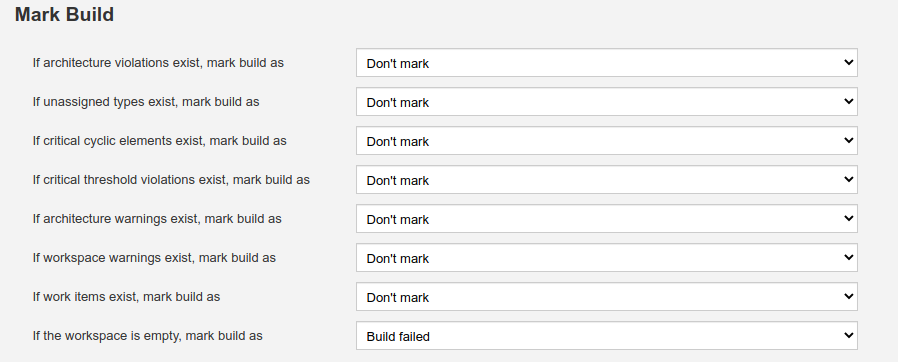
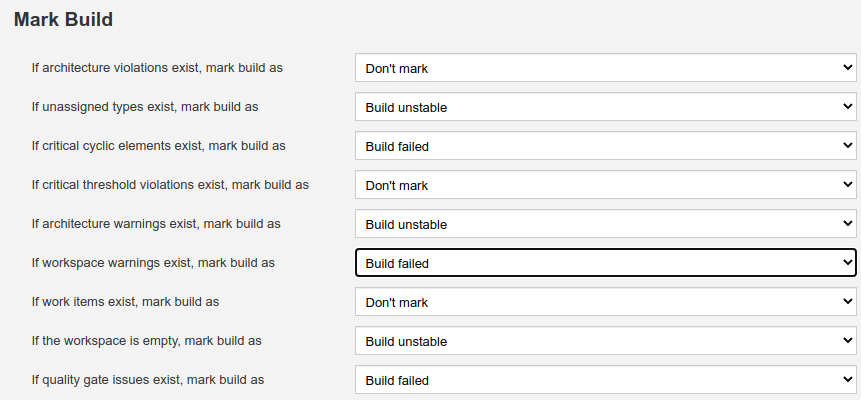
Added possibility to mark build on quality gate issues

diff --git a/src/main/java/com/hello2morrow/sonargraph/integration/jenkins/controller/AbstractSonargraphRecorder.java b/src/main/java/com/hello2morrow/sonargraph/integration/jenkins/controller/AbstractSonargraphRecorder.java
@@ -49,6 +49,7 @@ public abstract class AbstractSonargraphRecorder extends Recorder
     private String workspaceWarningsAction = DEFAULT_ACTION;
     private String workItemsAction = DEFAULT_ACTION;
     private String emptyWorkspaceAction = DEFAULT_ACTION;
+    private String qualityGateAction = DEFAULT_ACTION;
     
     public String getArchitectureViolationsAction()
     {
@@ -90,6 +91,11 @@ public abstract class AbstractSonargraphRecorder extends Recorder
         return emptyWorkspaceAction;
     }
 
+    public String getQualityGateAction()
+    {
+        return qualityGateAction;
+    }
+    
     @DataBoundSetter
     public void setArchitectureViolationsAction(String architectureViolationsAction)
     {
@@ -138,6 +144,12 @@ public abstract class AbstractSonargraphRecorder extends Recorder
         this.emptyWorkspaceAction = emptyWorkspaceAction;
     }
 
+    @DataBoundSetter
+    public void setQualityGateAction(String qualityGateAction)
+    {
+        this.qualityGateAction = qualityGateAction;
+    }
+    
     @Override
     public BuildStepMonitor getRequiredMonitorService()
     {
@@ -184,6 +196,7 @@ public abstract class AbstractSonargraphRecorder extends Recorder
         sonargraphBuildAnalyzer.changeBuildResultIfIssuesExist("Workspace", Severity.NONE, workspaceWarningsAction);
         sonargraphBuildAnalyzer.changeBuildResultIfIssuesExist("Todo", Severity.NONE, workItemsAction);
         sonargraphBuildAnalyzer.changeBuildResultIfMetricValueIsZero("CoreComponents", emptyWorkspaceAction);
+        sonargraphBuildAnalyzer.changeBuildResultIfIssuesExist("QualityGateIssue", Severity.NONE, qualityGateAction);
         final Result buildResult = sonargraphBuildAnalyzer.getOverallBuildResult();
 
         final File metricHistoryFile = new File(run.getParent().getRootDir(), ConfigParameters.METRIC_HISTORY_CSV_FILE_PATH.getValue());

diff --git a/src/main/java/com/hello2morrow/sonargraph/integration/jenkins/controller/AbstractBuildStepDescriptor.java b/src/main/java/com/hello2morrow/sonargraph/integration/jenkins/controller/AbstractBuildStepDescriptor.java
@@ -77,6 +77,11 @@ public abstract class AbstractBuildStepDescriptor extends BuildStepDescriptor<Pu
         return createListWithActions();
     }
 
+    public ListBoxModel doFillQualityGateActionItems()
+    {
+        return createListWithActions();
+    }
+    
     private ListBoxModel createListWithActions()
     {
         final ListBoxModel items = new ListBoxModel();
